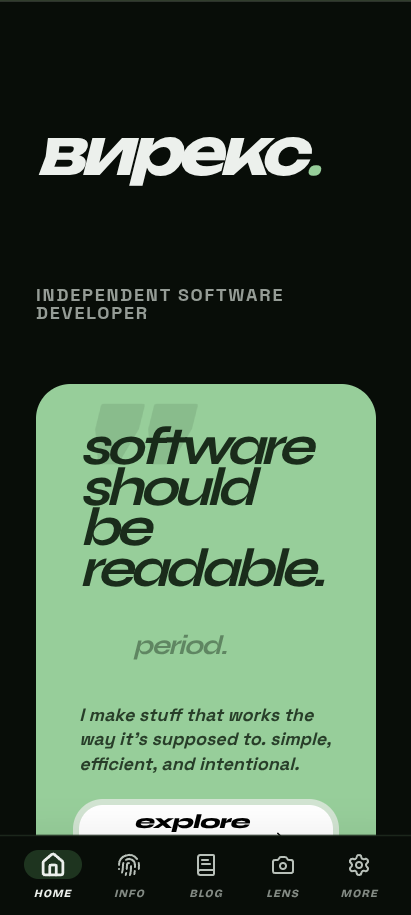
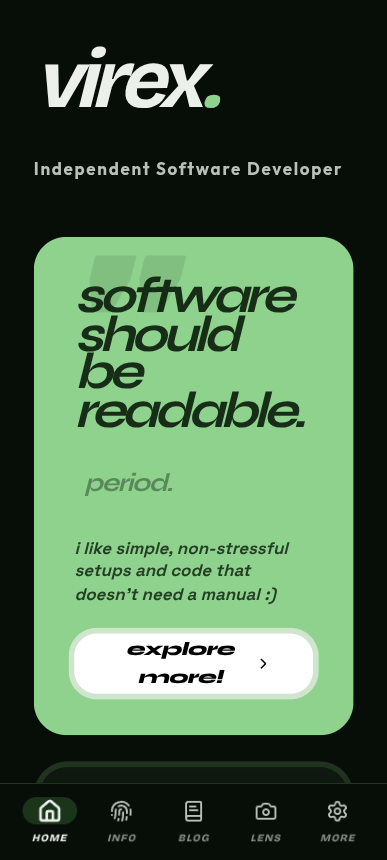
new screenshots, resumbit hkps://keyserver.ubuntu.com GPG key, and tons of text/virex lore renaming

diff --git a/src/pages/ReadmePage.tsx b/src/pages/ReadmePage.tsx
@@ -63,51 +63,18 @@ const BullshitMatrix = ({ onBack, setPage, is_mobile }: { onBack: () => void; se
           <motion.div
             initial={{ opacity: 0.1 }}
             animate={(!is_mobile && !settings.disableAnimations) ? {
-              scale: [1, 1.05, 1],
-              opacity: [0.12, 0.16, 0.12]
+              scale: [100],
+              opacity: [0.04]
             } : {}}
-            transition={{ duration: 10, repeat: Infinity, ease: "easeInOut" }}
-            className="absolute w-[600px] h-[600px] bg-[var(--primary)] rounded-full blur-[85px] top-1/2 left-1/2 -translate-x-1/2 -translate-y-1/2"
+            className="relative w-[600px] h-[600px] bg-[var(--primary)] rounded-full blur-[10px] top-1/2 left-1/2 -translate-x-1/2 -translate-y-1/2"
           />
-
-          {/* solar dots????? hehee */}
-          {[
-            { x: 15, y: 15, size: 250 },
-            { x: 30, y: 30, size: 180 },
-            { x: 70, y: 70, size: 200 },
-            { x: 85, y: 85, size: 300 },
-          ].map((p, i) => (
-            <motion.div
-              key={i}
-              initial={{ opacity: 0.08 }}
-              animate={(!is_mobile && !settings.disableAnimations) ? {
-                scale: [1, 1.1, 1],
-                opacity: [0.08, 0.12, 0.08]
-              } : {}}
-              transition={{
-                duration: 8 + i * 2,
-                repeat: Infinity,
-                ease: "easeInOut",
-                delay: i
-              }}
-              className="absolute bg-[var(--primary)] rounded-full blur-[50px]"
-              style={{
-                width: p.size,
-                height: p.size,
-                left: `${p.x}%`,
-                top: `${p.y}%`,
-                marginLeft: -p.size / 2,
-                marginTop: -p.size / 2
-              }}
-            />
-          ))}
         </div>
 
         <div className="absolute inset-0 bg-[radial-gradient(circle_at_50%_50%,transparent_0%,var(--surface)_90%)]" />
       </div>
 
       <div className="relative z-10 w-full max-w-6xl mx-auto px-6 py-20 flex flex-col items-center">
-        {/* hreo */}
+        {/* hero */}
         <div className="flex flex-col items-center mb-32 w-full">
           <div className="flex gap-1 md:gap-6 mb-8 flex-wrap justify-center">
             {letters.map((char, i) => (
@@ -126,7 +93,7 @@ const BullshitMatrix = ({ onBack, setPage, is_mobile }: { onBack: () => void; se
                   mass: 0.8
                 }}
                 className={cn(
-                  "text-7xl sm:text-8xl md:text-9xl lg:text-[11rem] tracking-[-0.05em] transition-all duration-150 select-none font-expressive-bold font-black italic",
+                  "text-8xl sm:text-8xl md:text-9xl lg:text-[11rem] tracking-[0.01em] transition-all duration-150 select-none font-expressive font-black",
                   flickering.includes(i) ? "text-[var(--primary)] scale-105" : "text-[var(--on-surface)]"
                 )}
               >
@@ -162,10 +129,10 @@ const BullshitMatrix = ({ onBack, setPage, is_mobile }: { onBack: () => void; se
             <div className="-ml-2 h-px w-12 bg-[var(--primary)] opacity-30" />
           </div>
           <h2 className="text-4xl md:text-7xl font-display font-black tracking-tighter leading-[1.05] max-w-4xl mx-auto italic">
-            <br /> Semi <span className="text-[var(--primary)]">full-stack developer</span> and <span className="text-[var(--primary)]">Cybersecurity nerd</span> building things at virex.lol. <br /> <br /> Obsessed with minimal software bases, archival, clean user experiences, and aesthetics.
+            <br /> Semi <span className="text-[var(--primary)]">full-stack developer</span> and <span className="text-[var(--primary)]">Cybersecurity Student</span> building things at virex.lol <br /> <br /> I do what I know best. <br /> <br /> Keeping things simple, working, clean user experiences, and great aesthetics.
           </h2>
           <p className="text-xl md:text-3xl opacity-60 font-medium max-w-4xl mx-auto leading-relaxed italic">
-            Running on arch, lightweight WMs, and way too much caffeine!! <br className="hidden md:block" />
+            Running on Arch (btw), Hyprland, and way too much caffeine!! <br className="hidden md:block" />
             <span className="relative inline-block mt-4 md:mt-0">
               <span className="text-[var(--primary)] font-bold relative z-10">
                 breaking things locally,
@@ -178,7 +145,7 @@ const BullshitMatrix = ({ onBack, setPage, is_mobile }: { onBack: () => void; se
               </span>
               <span className="absolute bottom-1 left-0 w-full h-1.5 bg-[var(--primary)]/20 rotate-1" />
             </span>{" "}
-            :3
+            &lt;3
           </p>
         </motion.section>
 
@@ -192,17 +159,20 @@ const BullshitMatrix = ({ onBack, setPage, is_mobile }: { onBack: () => void; se
             innerClassName={cn("px-6 py-8 md:p-12 bg-[var(--surface-variant)]/60 rounded-[3.5rem] border-6 border-[var(--outline-variant)]/40 relative overflow-hidden group hover:border-[var(--primary)] transition-colors duration-200", glass_class)}
           >
             <h3 className="text-2xl md:text-4xl font-display font-black mb-8 md:mb-10 tracking-tight transition-colors group-hover:text-[var(--primary)] flex items-center gap-3 italic">
-              <History className="text-[var(--primary)] w-6 h-6 md:w-8 md:h-8" /> Virex.lol Lore...
+              <History className="text-[var(--primary)] w-6 h-6 md:w-8 md:h-8" /> Virex.lol backstory...
             </h3>
-            <div className="space-y-6 text-xl md:text-2xl opacity-80 leading-relaxed font-medium">
+            <div className="space-y-6 text-[15px] md:text-xl opacity-80 leading-relaxed font-medium">
               <p>
-                I had started my <span className="text-[var(--primary)] font-black">software researching</span> around 2021, focusing on simple scripting and tools.
+                I started my journey with <span className="text-[var(--primary)] font-black">scripting</span>. around 2023, I was hooked on windows batch scripting. I would spend hours making stupid multitools and that's when I hit a barrier.
               </p>
               <p>
-                what started as a curiosity for how software worked, quickly turned into a pretty huge interest for <span className="text-[var(--primary)] font-black">programming</span> and hardware.
+                batch just didn't give me enough control, and trying to scale anything in it would turn into a nightmare. I kept forgetting how my own code worked, looping back to fix things, and getting nowhere. 
               </p>
               <p>
-                since then, I became a developer with a maintained interest in cybersec and programming. by the end of 2023, my focus shifted toward linux and programming languages.
+                so, I skipped the easy stuff and went straight to <span className="text-[var(--primary)] font-black">C and Visual Studio</span>. from there, I moved into <span className="text-[var(--primary)] font-black">rust</span>, and eventually found my way to web development and <span className="text-[var(--primary)] font-black">UI design</span>.
+              </p>
+              <p>
+              that's when virex.lol became my focus. it started as a basic light/dark material 3 test in <span className="text-[var(--primary)] font-black">HTML/CSS</span>, went through a neobrutalist phase, stripped back into a colorful adwaita-inspired theme and finally experimented with <span className="text-[var(--primary)] font-black">react</span>, and that's when I landed on the material 3 expressive style you're looking at right now.
               </p>
             </div>
             <div className="absolute -right-8 -bottom-8 opacity-[0.03] group-hover:scale-110 group-hover:opacity-[0.05] transition-all duration-700">
@@ -220,14 +190,14 @@ const BullshitMatrix = ({ onBack, setPage, is_mobile }: { onBack: () => void; se
             <div className="space-y-6 relative z-10">
               <div className="flex items-center gap-3">
                 <Target className="text-[var(--primary)] w-8 h-8" strokeWidth={2.5} />
-                <span className="text-xl font-black tracking-[0.4em] opacity-60 italic uppercase">A Mission...</span>
+                <span className="text-xl font-black font-expressive tracking-[0.2em] opacity-60 italic uppercase">A Mission...</span>
               </div>
               <p className="text-2xl md:text-4xl leading-[0.95] tracking-tighter font-expressive font-black italic text-balance">
                 "good code can be used as a form of <span className="text-[var(--primary)]">protest.</span>"
               </p>
             </div>
-            <p className="text-sm md:text-xl opacity-80 font-bold leading-tight italic relative z-10">
-              the internet is proprietary, and we can fight back! using code as a form of expression and resistance, to create a more open and free digital world.
+            <p className="text-md md:text-2xl opacity-80 font-bold leading-tight relative z-10">
+              proprietary tech thrives on unnecessary <br></br> complexity to lock you in. fighting back means <br></br> writing code that is lightweight, transparent, <br></br> and built to last, not to sell.
             </p>
             <div className="absolute -right-8 -top-8 opacity-10 group-hover:scale-125 transition-transform duration-700 pointer-events-none">
               <Target size={180} />
@@ -241,21 +211,21 @@ const BullshitMatrix = ({ onBack, setPage, is_mobile }: { onBack: () => void; se
             className="col-span-2 md:col-span-12 lg:col-span-6"
             innerClassName="bg-[#0a0a0a] text-white/90 px-5 py-8 md:p-10 rounded-[3.5rem] border-6 border-white/5 font-mono relative group overflow-hidden hover:border-[var(--primary)] transition-colors duration-200 flex flex-col gap-6"
           >
-            <div className="flex items-center gap-3 transition-opacity group-hover:opacity-100 mb-4">
+            <div className="flex items-center ml-2 gap-3 transition-opacity group-hover:opacity-100 mb-4">
               <SquareTerminal className="text-[var(--primary)] w-5 h-5 md:w-6 md:h-6" />
-              <span className="text-sm md:text-base font-bold tracking-[0.2em] uppercase italic">virex@virex</span>
+              <span className="text-sm md:text-base font-mono font-bold tracking-[0.1em] opacity-80"><span className="text-[var(--primary)]">virex</span>@<span className="text-[var(--primary)]">virex-arch-linux</span></span>
             </div>
-            <div className="space-y-3">
+            <div className="md:space-y-4 space-y-3 ml-3 md:ml-2">
               {[
-                { k: "OS", v: "Arch Linux" },
-                { k: "Shell", v: "fish 4.7.1" },
-                { k: "Kernel", v: "Linux 7.0.9" },
-                { k: "CPU", v: "i5-14600K" },
-                { k: "GPU", v: "RX 6800 XT" },
+                { k: "OS:", v: "Arch Linux" },
+                { k: "Shell:", v: "fish 4.7.1" },
+                { k: "Kernel:", v: "Linux 7.0.9" },
+                { k: "CPU:", v: "i5-14600K" },
+                { k: "GPU:", v: "RX 6800 XT" },
               ].map(s => (
-                <div key={s.k} className="flex gap-4 text-xs md:text-sm">
+                <div key={s.k} className="flex gap-2 text-[13px] md:text-xl">
                   <span className="text-[var(--primary)] font-bold min-w-[60px] md:min-w-[80px] italic">{s.k}</span>
-                  <span className="opacity-60 group-hover:opacity-100 transition-opacity truncate">{s.v}</span>
+                  <span className="opacity-60 group-hover:opacity-100 transition-opacity font-expressive tracking-[0.03em] truncate">{s.v}</span>
                 </div>
               ))}
             </div>
@@ -271,11 +241,11 @@ const BullshitMatrix = ({ onBack, setPage, is_mobile }: { onBack: () => void; se
           >
             <div className="flex items-center gap-3">
               <Code2 className="text-[var(--primary)] w-5 h-5 md:w-6 md:h-6" />
-              <h4 className="text-xl md:text-2xl font-display font-black transition-colors group-hover:text-[var(--primary)] italic">The stack..</h4>
+              <h4 className="text-xl md:text-2xl font-display font-black transition-colors group-hover:text-[var(--primary)] italic">My stack..</h4>
             </div>
             <div className="grid grid-cols-1 md:grid-cols-2 gap-8 md:gap-12">
               <div className="space-y-4">
-                <div className="text-[13px] font-black tracking-[0.4em] opacity-40 uppercase italic">Web Stack</div>
+                <div className="text-[14px] font-black tracking-[0.2em] opacity-70">Web Stack</div>
                 <div className="flex flex-wrap gap-2.5">
                   {TECH_STACK.web.sort().map(t => (
                     <TechChip key={t} label={t} />
@@ -283,7 +253,7 @@ const BullshitMatrix = ({ onBack, setPage, is_mobile }: { onBack: () => void; se
                 </div>
               </div>
               <div className="space-y-4">
-                <div className="text-[13px] font-black tracking-[0.4em] opacity-40 uppercase italic">Technical Stack</div>
+                <div className="text-[14px] font-black tracking-[0.2em] opacity-70">Tech Stack</div>
                 <div className="flex flex-wrap gap-2.5">
                   {TECH_STACK.technical.sort().map(t => (
                     <TechChip key={t} label={t} />
@@ -305,14 +275,13 @@ const BullshitMatrix = ({ onBack, setPage, is_mobile }: { onBack: () => void; se
                 <Archive className="text-[var(--primary)] w-6 h-6 md:w-8 md:h-8" /> Archival
               </h4>
               <p className="text-xl opacity-70 font-medium max-w-2xl group-hover:opacity-100 transition-opacity italic">
-                just my instinct. I love collecting legacy software, old documentation, and keeping backups of everything of interest that I find.
+                simply one of my hobbies. I love collecting old software, music plug-ins, old documentation, and keeping backups of everything of interest that I find.
               </p>
             </div>
             <div className="flex flex-col items-center md:items-end gap-2 shrink-0">
-              <div className="text-[13px] font-black tracking-[0.4em] opacity-40 mb-2 uppercase italic">Fingerprint!</div>
+              <div className="text-[16px] font-black tracking-[0.2em] opacity-40 mb-2">Fingerprint!</div>
               <div className="text-[11px] md:text-sm font-mono opacity-100 select-all p-4 bg-[var(--surface-variant)] rounded-2xl border-2 border-[var(--outline-variant)]/40 leading-relaxed text-center md:text-right group-hover:border-[var(--primary)]/30 transition-all">
-                1D4D 0BDB 03DA F87B 2151 <br />
-                6AE8 A109 C97B 2AD5 C2E6
+                77CBF94F4D2A99FEBC5C<br></br>EB4F283C191C49B2A76C
               </div>
             </div>
           </Card>

diff --git a/src/pages/HomePage.tsx b/src/pages/HomePage.tsx
@@ -90,8 +90,8 @@ const AdCard = () => {
 
 const HelloVirex = () => {
   const words = [
-    "вирекс",
     "virex",
+    "вирекс",
     "维雷克斯",
     "비렉스",
     "ڤيركس",
@@ -107,7 +107,7 @@ const HelloVirex = () => {
   }, [widx, words.length]);
 
   return (
-    <div className="h-[12rem] md:h-[14rem] flex items-center">
+    <div className="h-[3rem] md:h-[14rem] flex items-center">
       <AnimatePresence mode="wait">
         <motion.h1
           key={words[widx]}
@@ -133,7 +133,7 @@ const HelloVirex = () => {
             damping: settings.highHz ? 25 : 22,
             mass: 1,
           }}
-          className="text-7xl sm:text-8xl md:text-9xl lg:text-[12rem] xl:text-[14rem] font-expressive italic tracking-[-0.08em] leading-[0.7] text-balance flex items-baseline"
+          className="text-8xl sm:text-8xl md:text-9xl lg:text-[12rem] xl:text-[14rem] font-expressive italic tracking-[-0.08em] leading-[0.7] text-balance flex items-baseline"
         >
           {words[widx]}
           <motion.span className="text-[var(--primary)] select-none relative z-[60] inline-block ml-[0.05em]">
@@ -220,16 +220,29 @@ const RoleTicker = ({ settings }: { settings: any }) => {
       <AnimatePresence mode="wait">
         <motion.div
           key={roles[idx]}
-          initial={{ opacity: 0, y: 20 }}
-          animate={{ opacity: 0.8, y: 0 }}
-          exit={{ opacity: 0, y: -20 }}
-          transition={{
-            type: "spring",
-            stiffness: 300,
-            damping: 30,
-            mass: 0.8
+          initial={{
+            opacity: 0,
+            y: 40,
+            rotate: -2,
           }}
-          className="text-xl md:text-3xl font-display font-black text-[var(--on-surface-variant)] leading-none uppercase tracking-[0.1em]"
+          animate={{
+            opacity: 1,
+            y: 0,
+            rotate: 0,
+          }}
+          exit={{
+            opacity: 0,
+            y: -40,
+            rotate: 2,
+          }}
+          transition={{
+            type: settings.disableAnimations ? "tween" : "spring",
+            duration: settings.disableAnimations ? 0 : undefined,
+            stiffness: settings.highHz ? 600 : 400,
+            damping: settings.highHz ? 25 : 22,
+            mass: 1,
+          }}
+          className="text-xl md:text-3xl capitalize font-black text-[var(--on-surface-variant)] leading-none tracking-[0.1em] mt-4"
         >
           {roles[idx]}
         </motion.div>
@@ -414,7 +427,7 @@ export const HomePage = memo(({ setPage, settings, onOpenGuestbook }: any) => {
             transition={{ duration: settings.disableAnimations ? 0 : 0.6, ease: [0.33, 1, 0.68, 1] }}
             className="page-title !text-7xl sm:!text-8xl md:!text-9xl lg:!text-[12rem] xl:!text-[14rem] leading-[0.7] text-balance flex items-baseline font-expressive-bold italic tracking-[-0.08em]"
           >
-            вирекс
+            virex
             <motion.span 
               animate={IS_JUNE ? { 
                 color: ["#E40303", "#FF8C00", "#FFED00", "#008026", "#24408E", "#732982", "#E40303"] 
@@ -444,14 +457,14 @@ export const HomePage = memo(({ setPage, settings, onOpenGuestbook }: any) => {
               <h2 className="text-6xl md:text-[7rem] opacity-90 italic font-expressive-bold leading-[0.75] tracking-[-0.08em]">
                 software should <br /> be readable.
               </h2>
-              <h2 className="text-3xl md:text-6xl italic font-expressive-bold ml-15 leading-none tracking-[-0.05em] mt-8 opacity-40">
+              <h2 className="text-3xl md:text-6xl italic font-expressive-bold md:ml-15 ml-3 leading-none tracking-[-0.05em] mt-8 opacity-40">
                 period.
               </h2>
             </div>
           </div>
           <div className="flex flex-col md:flex-row items-end justify-between gap-8 mt-12 relative z-10">
             <p className="text-xl md:text-2xl opacity-80 font-display font-black italic max-w-xl leading-snug">
-              I make stuff that works the way it's supposed to. simple, efficient, and intentional.
+              i like simple, non-stressful setups and code that doesn't need a manual :)
             </p>
             <motion.button
               whileHover={{
